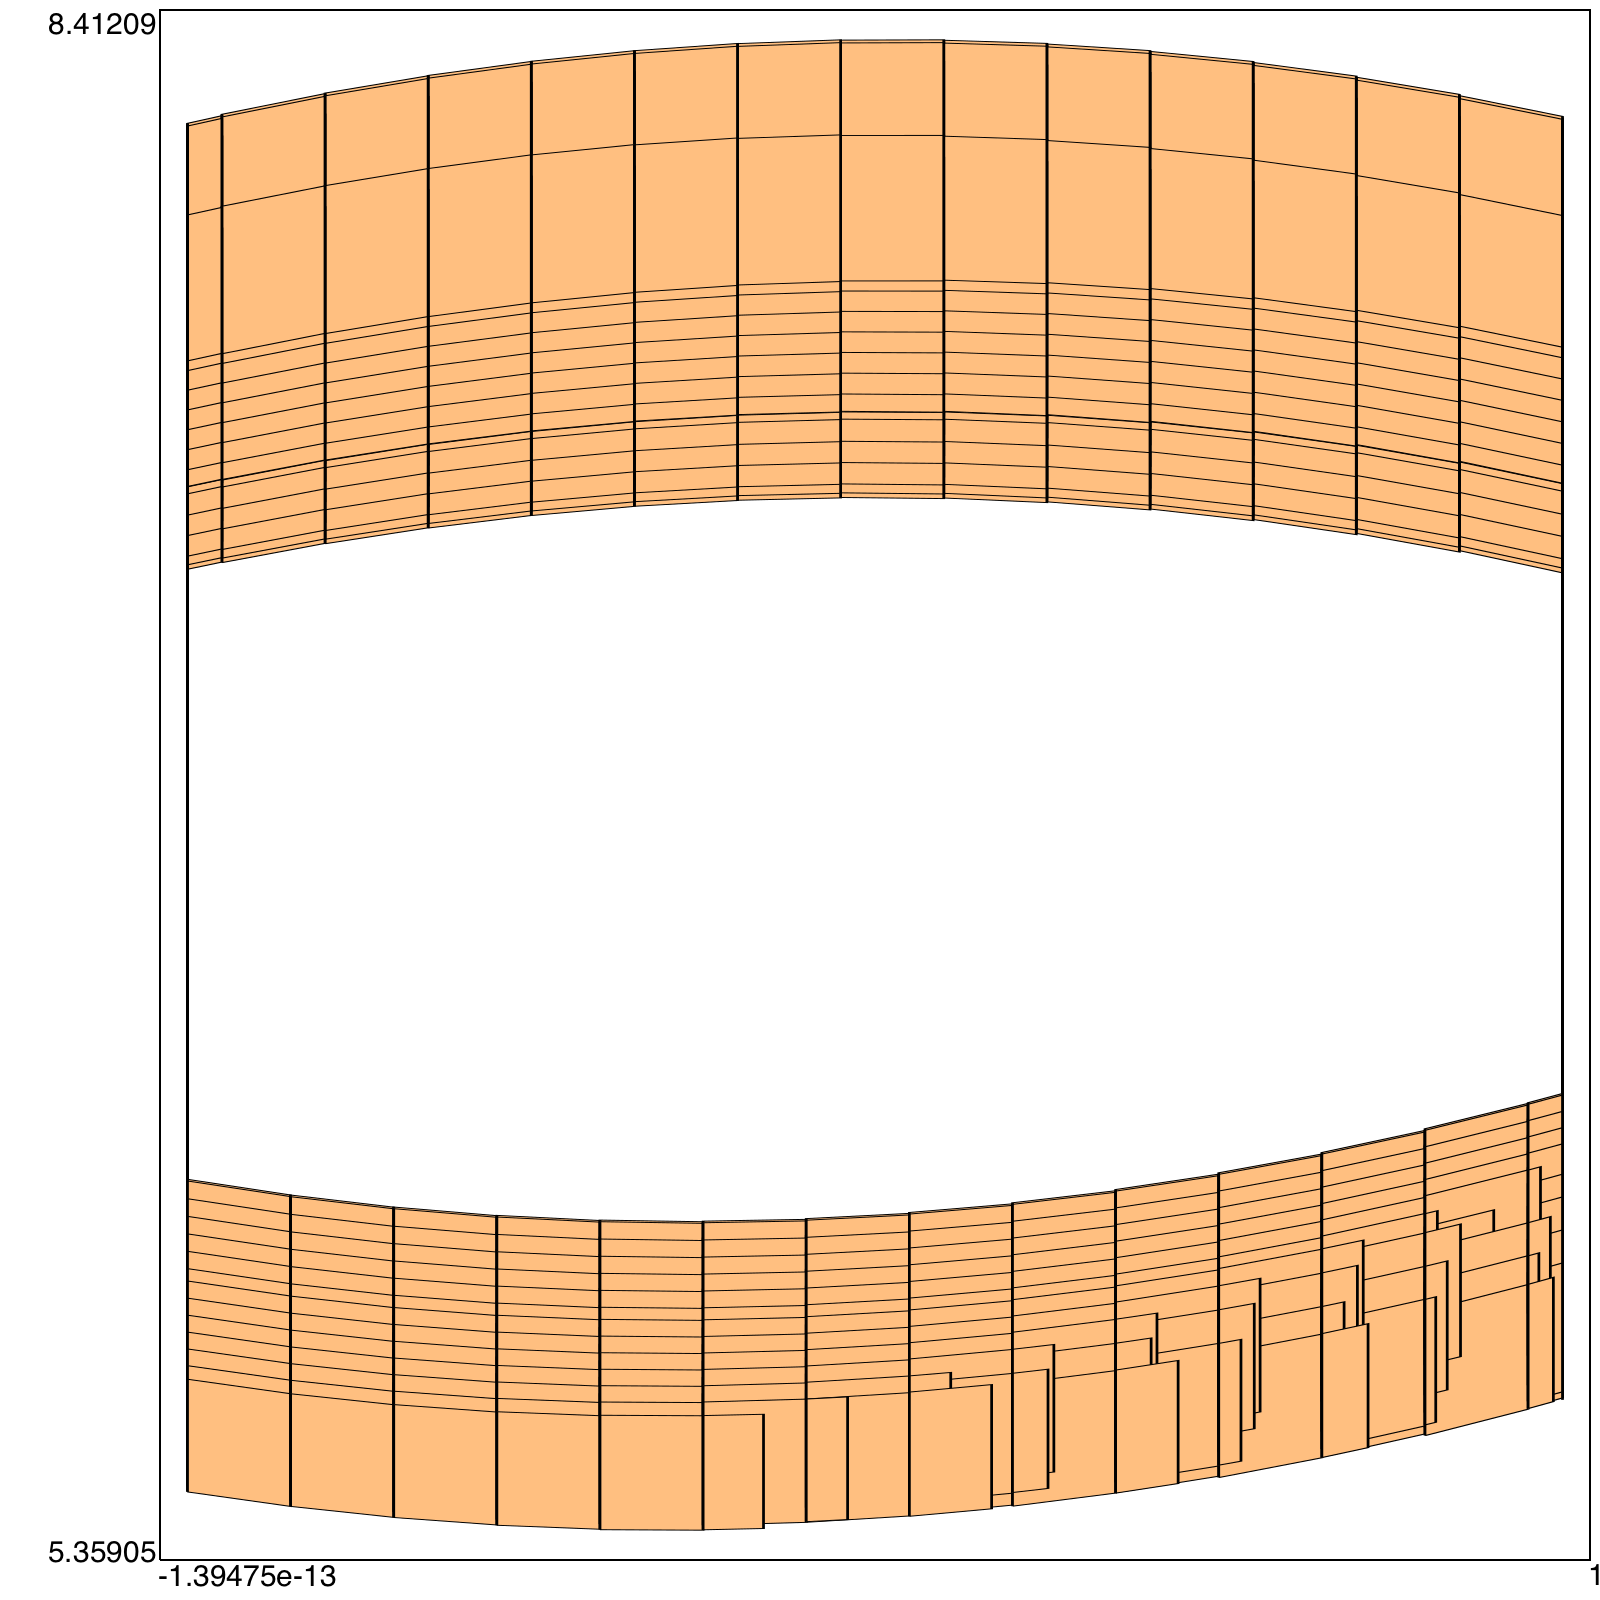
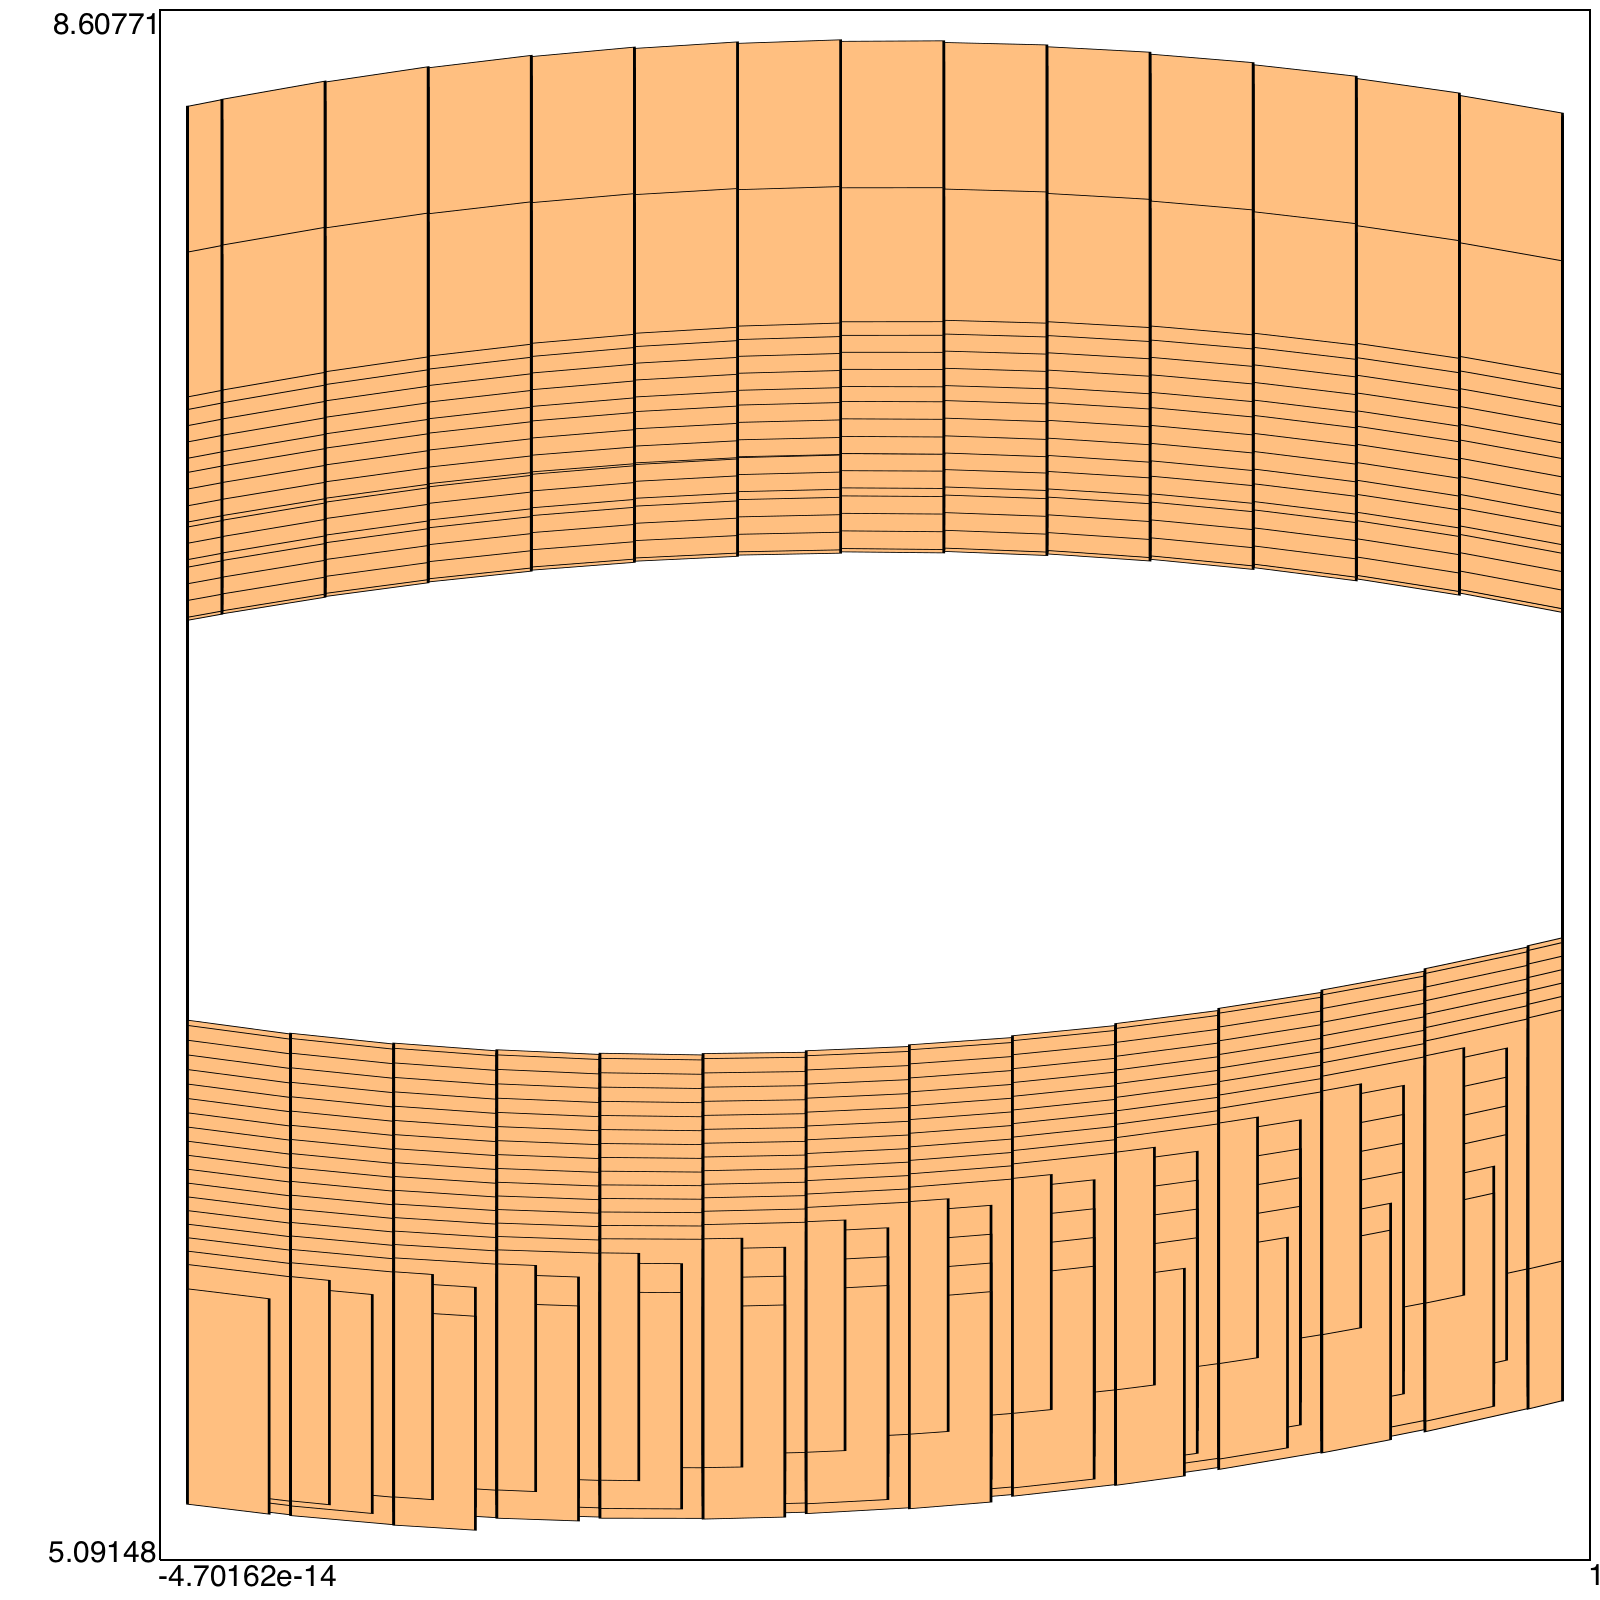
Updated figures

diff --git a/content/tutorial.md b/content/tutorial.md
@@ -576,7 +576,7 @@ Here we show that it is possible to provide an additional argument, given by an 
 
 Additionally, this variant of the plot method provides all the projections of the set on each location. 
 
-![outer-reach](/img/outer-reach.png "Infinite time outer evolution at accuracy 5")
+![outer-reach](/img/outer-reach-5.png "Infinite time outer evolution at accuracy 5")
 
 In the figure above we can see the reached set, which can be compared with the one obtained for finite time evolution. The most relevant difference is that discretisations occur after *each transition* and after a given continuous evolution time; after such discretisation, the current set is compared with the set on the previous discretisation in order to identify if no cells are reached. A total of 16 discretisation are performed before this condition is met, as can be seen if we set a verbosity of 2. Discretisations necessarily increase the width of the flow tube, which is apparent on the right side of the figure: this is the section where the dynamics is the slowest, hence more discretisation events occur. The "artifacts" on the top right and bottom left corners of the figure are due to discretisation error; while quite relevant at accuracy 5, it can be shown for accuracy 7 to reduce their overall impact, thus shrinking to zero for infinite accuracy.
 
